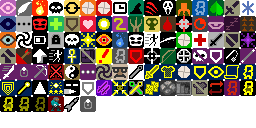
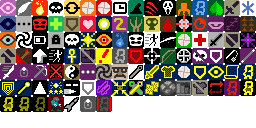
4.1.1:版本号+1；更改花园房荒芜之地效果，水灵秘药配方，鼠王房间，逸动提示，蓄血圣杯护盾计算；寄生接入伤害 Buff；制作集群智能新图标，涌动炸弹视觉效果；加强晶化附魔

Changed region(s): [[0.375, 0.75, 0.4375, 0.875]]

diff --git a/core/src/main/java/com/shatteredpixel/shatteredpixeldungeon/levels/rooms/special/GardenRoom.java b/core/src/main/java/com/shatteredpixel/shatteredpixeldungeon/levels/rooms/special/GardenRoom.java
@@ -21,12 +21,16 @@
 
 package com.shatteredpixel.shatteredpixeldungeon.levels.rooms.special;
 
+import com.shatteredpixel.shatteredpixeldungeon.Challenges;
+import com.shatteredpixel.shatteredpixeldungeon.Dungeon;
 import com.shatteredpixel.shatteredpixeldungeon.actors.blobs.Foliage;
+import com.shatteredpixel.shatteredpixeldungeon.items.Generator;
 import com.shatteredpixel.shatteredpixeldungeon.levels.Level;
 import com.shatteredpixel.shatteredpixeldungeon.levels.Terrain;
 import com.shatteredpixel.shatteredpixeldungeon.levels.painters.Painter;
 import com.shatteredpixel.shatteredpixeldungeon.plants.BlandfruitBush;
-import com.shatteredpixel.shatteredpixeldungeon.plants.Sungrass;
+import com.shatteredpixel.shatteredpixeldungeon.plants.Plant;
+import com.shatteredpixel.shatteredpixeldungeon.plants.Starflower;
 import com.watabou.utils.Random;
 
 public class GardenRoom extends SpecialRoom {
@@ -39,14 +43,26 @@ public class GardenRoom extends SpecialRoom {
 		
 		entrance().set( Door.Type.REGULAR );
 
+		Plant.Seed seed = (Plant.Seed) Generator.randomUsingDefaults(Generator.Category.SEED);
+
 		int bushes = Random.Int(3);
+		int pos = plantPos(level);
+
 		if (bushes == 0) {
-			level.plant(new Sungrass.Seed(), plantPos( level ));
+			if (Dungeon.isChallenged(Challenges.NO_HERBALISM)) Dungeon.level.drop(seed, pos);
+			else level.plant(seed, pos);
 		} else if (bushes == 1) {
-			level.plant(new BlandfruitBush.Seed(), plantPos( level ));
+			if (Dungeon.isChallenged(Challenges.NO_HERBALISM)) Dungeon.level.drop(seed, pos);
+			else level.plant(new BlandfruitBush.Seed(), pos);
 		} else if (Random.Int(5) == 0) {
-			level.plant(new Sungrass.Seed(), plantPos( level ));
-			level.plant(new BlandfruitBush.Seed(), plantPos( level ));
+			int bushPos = plantPos(level);
+			if (Dungeon.isChallenged(Challenges.NO_HERBALISM)) {
+				Dungeon.level.drop(seed, pos);
+				Dungeon.level.drop(new Starflower.Seed(), bushPos);
+			} else {
+				level.plant(seed, pos);
+				level.plant(new BlandfruitBush.Seed(), bushPos);
+			}
 		}
 		
 		Foliage light = (Foliage)level.blobs.get( Foliage.class );

diff --git a/core/src/main/java/com/shatteredpixel/shatteredpixeldungeon/levels/rooms/secret/SecretGardenRoom.java b/core/src/main/java/com/shatteredpixel/shatteredpixeldungeon/levels/rooms/secret/SecretGardenRoom.java
@@ -21,7 +21,10 @@
 
 package com.shatteredpixel.shatteredpixeldungeon.levels.rooms.secret;
 
+import com.shatteredpixel.shatteredpixeldungeon.Challenges;
+import com.shatteredpixel.shatteredpixeldungeon.Dungeon;
 import com.shatteredpixel.shatteredpixeldungeon.actors.blobs.Foliage;
+import com.shatteredpixel.shatteredpixeldungeon.items.Generator;
 import com.shatteredpixel.shatteredpixeldungeon.items.trinkets.WornLock;
 import com.shatteredpixel.shatteredpixeldungeon.items.wands.WandOfRegrowth;
 import com.shatteredpixel.shatteredpixeldungeon.levels.Level;
@@ -52,17 +55,24 @@ public class SecretGardenRoom extends SecretRoom {
 		} else {
 			entrance().set( Door.Type.HIDDEN );
 		}
-		
-		level.plant(new Starflower.Seed(), plantPos(level));
-		level.plant(new WandOfRegrowth.Seedpod.Seed(), plantPos( level ));
-		level.plant(new WandOfRegrowth.Dewcatcher.Seed(), plantPos( level ));
-		
-		if (Random.Int(2) == 0){
-			level.plant(new WandOfRegrowth.Seedpod.Seed(), plantPos( level ));
+
+		int starPos = plantPos(level);
+		if (Dungeon.isChallenged(Challenges.NO_HERBALISM)) {
+			Dungeon.level.drop(new Starflower.Seed(), starPos);
+			for (int i = 0; i < 3 + Random.Int(3); i++)
+				Dungeon.level.drop(Generator.randomUsingDefaults(Generator.Category.SEED), plantPos(level));
 		} else {
-			level.plant(new WandOfRegrowth.Dewcatcher.Seed(), plantPos( level ));
+			level.plant(new Starflower.Seed(), starPos);
+			level.plant(new WandOfRegrowth.Seedpod.Seed(), plantPos(level));
+			level.plant(new WandOfRegrowth.Dewcatcher.Seed(), plantPos(level));
+
+			if (Random.Int(2) == 0) {
+				level.plant(new WandOfRegrowth.Seedpod.Seed(), plantPos(level));
+			} else {
+				level.plant(new WandOfRegrowth.Dewcatcher.Seed(), plantPos(level));
+			}
 		}
-		
+
 		Foliage light = (Foliage)level.blobs.get( Foliage.class );
 		if (light == null) {
 			light = new Foliage();

diff --git a/core/src/main/java/com/shatteredpixel/shatteredpixeldungeon/levels/rooms/secret/RatKingRoom.java b/core/src/main/java/com/shatteredpixel/shatteredpixeldungeon/levels/rooms/secret/RatKingRoom.java
@@ -25,6 +25,7 @@ import com.shatteredpixel.shatteredpixeldungeon.Assets;
 import com.shatteredpixel.shatteredpixeldungeon.Dungeon;
 import com.shatteredpixel.shatteredpixeldungeon.actors.mobs.npcs.RatKing;
 import com.shatteredpixel.shatteredpixeldungeon.items.Gold;
+import com.shatteredpixel.shatteredpixeldungeon.items.Heap;
 import com.shatteredpixel.shatteredpixeldungeon.items.trinkets.WornLock;
 import com.shatteredpixel.shatteredpixeldungeon.levels.Level;
 import com.shatteredpixel.shatteredpixeldungeon.levels.Terrain;
@@ -79,7 +80,7 @@ public class RatKingRoom extends SecretRoom {
 
 		if (Random.Float() <= WornLock.revealHiddenDoorChance()) {
 			entrance.set( Door.Type.UNLOCKED );
-		} else {
+		} else
 			entrance.set( Door.Type.HIDDEN );
 		int door = level.pointToCell(entrance);
 
@@ -95,6 +96,17 @@ public class RatKingRoom extends SecretRoom {
 				center + 2*w,
 				center - 2 + 2*w,
 				center -2,
+		};
+
+		int[] chestPositions = new int[]{
+				center - 1 - 2*w,
+				center + 1 - 2*w,
+				center - 2 - w,
+				center + 2 - w,
+				center - 2 + w,
+				center + 2 + w,
+				center - 1 + 2*w,
+				center + 1 + 2*w,
 		};
 
 		for (int cell : statuePositions){
@@ -123,12 +135,8 @@ public class RatKingRoom extends SecretRoom {
 		king.pos = center;
 		level.mobs.add( king );
 
-		for (Point p : getPoints()){
-			int cell = level.pointToCell(p);
-			if (cell != center && (level.map[cell] == Terrain.EMPTY || level.map[cell] == Terrain.EMPTY_SP)){
-				level.drop( new Gold( Random.IntRange( 5, 20 ) ), cell );
-			}
-		}
+		for (int i : chestPositions)
+			level.drop( new Gold( Random.IntRange( 20, 30 ) ), i ).type = Heap.Type.CHEST;
 	}
 
 	public static class RatKingRoomDeco extends CustomTilemap {

diff --git a/core/src/main/java/com/shatteredpixel/shatteredpixeldungeon/actors/mobs/Parasite.java b/core/src/main/java/com/shatteredpixel/shatteredpixeldungeon/actors/mobs/Parasite.java
@@ -71,6 +71,7 @@ public class Parasite extends RipperDemon {
 		if (leapVictim != null && alignment != leapVictim.alignment){
 			if (hit(this, leapVictim, Char.INFINITE_ACCURACY, false)) {
 				Buff.append(leapVictim, Parasitism.class).parasite = this;
+				leapVictim.needsIncomingDOTUpdate = true;
 
 				Doom d = buff(Doom.class);
 				Actor.remove(this);
@@ -105,7 +106,7 @@ public class Parasite extends RipperDemon {
 		return Random.NormalIntRange(6, 10);
 	}
 
-	public static class Parasitism extends Buff {
+	public static class Parasitism extends Buff implements Buff.DOTbuff {
 
 		public Parasite parasite;
 		private int Time = 12;
@@ -138,6 +139,7 @@ public class Parasite extends RipperDemon {
 			spend(TICK);
 			target.damage(12 - Time, this);
 			if (Time <= 0) detach();
+			target.needsIncomingDOTUpdate = true;
 			return true;
 		}
 
@@ -184,12 +186,18 @@ public class Parasite extends RipperDemon {
 				Sample.INSTANCE.play(Assets.Sounds.HIT_STAB);
 				Sample.INSTANCE.play(Assets.Sounds.HIT_STRONG);
 			}
+			target.needsIncomingDOTUpdate = true;
 			super.detach();
 		}
 
 		@Override
 		public String desc() {
 			return Messages.get(this, "desc", Time);
+		}
+
+		@Override
+		public int totalIncomingDMG() {
+			return (Math.max(0, 1 - Time) + 25 - Time) * Math.max(1, Time) / 2;
 		}
 	}
 }

diff --git a/core/src/main/java/com/shatteredpixel/shatteredpixeldungeon/items/weapon/enchantments/Crystal.java b/core/src/main/java/com/shatteredpixel/shatteredpixeldungeon/items/weapon/enchantments/Crystal.java
@@ -87,15 +87,26 @@ public class Crystal extends Weapon.Enchantment {
 				} else if (visualDurability <= 0) {
 					Sample.INSTANCE.play( Assets.Sounds.SHATTER );
 					Splash.at(attacker.pos, 0x0088FF, 15);
+
+					boolean toBreak = true;
+					if (weapon.trueLevel() > 0 && weapon.isUpgradable()) {
+						weapon.degrade();
+						toBreak = false;
+						durability = 100;
+						visualDurability = 100;
+					}
+
 					if (attacker instanceof Hero) {
-						if (weapon.isEquipped((Hero) attacker)) {
-							weapon.doUnequip((Hero) attacker, false);
-						} else {
-							weapon.detachAll(((Hero) attacker).belongings.backpack);
+						if (toBreak){
+							if (weapon.isEquipped((Hero) attacker)) {
+								weapon.doUnequip((Hero) attacker, false);
+							} else {
+								weapon.detachAll(((Hero) attacker).belongings.backpack);
+							}
 						}
 						GLog.n(Messages.get(this, "alert_shattered"));
 					} else if (attacker instanceof DriedRose.GhostHero){
-						((DriedRose.GhostHero) attacker).clearWeapon();
+						if (toBreak) ((DriedRose.GhostHero) attacker).clearWeapon();
 						GLog.n(Messages.get(this, "alert_shattered_ghost"));
 					}
 				}

diff --git a/core/src/main/java/com/shatteredpixel/shatteredpixeldungeon/items/potions/elixirs/ElixirOfAquaticRejuvenation.java b/core/src/main/java/com/shatteredpixel/shatteredpixeldungeon/items/potions/elixirs/ElixirOfAquaticRejuvenation.java
@@ -31,6 +31,7 @@ import com.shatteredpixel.shatteredpixeldungeon.actors.hero.Hero;
 import com.shatteredpixel.shatteredpixeldungeon.effects.FloatingText;
 import com.shatteredpixel.shatteredpixeldungeon.items.Item;
 import com.shatteredpixel.shatteredpixeldungeon.items.potions.PotionOfHealing;
+import com.shatteredpixel.shatteredpixeldungeon.items.potions.exotic.PotionOfShielding;
 import com.shatteredpixel.shatteredpixeldungeon.items.quest.GooBlob;
 import com.shatteredpixel.shatteredpixeldungeon.journal.Catalog;
 import com.shatteredpixel.shatteredpixeldungeon.messages.Messages;
@@ -176,10 +177,10 @@ public class ElixirOfAquaticRejuvenation extends Elixir {
 	public static class Recipe extends com.shatteredpixel.shatteredpixeldungeon.items.Recipe.SimpleRecipe {
 		
 		{
-			inputs =  new Class[]{PotionOfHealing.class, GooBlob.class};
+			inputs =  new Class[]{PotionOfShielding.class, GooBlob.class};
 			inQuantity = new int[]{1, 1};
 			
-			cost = 6;
+			cost = 2;
 			
 			output = ElixirOfAquaticRejuvenation.class;
 			outQuantity = 1;

diff --git a/core/src/main/java/com/shatteredpixel/shatteredpixeldungeon/items/bombs/AdrenalineBomb.java b/core/src/main/java/com/shatteredpixel/shatteredpixeldungeon/items/bombs/AdrenalineBomb.java
@@ -30,7 +30,9 @@ import com.shatteredpixel.shatteredpixeldungeon.actors.buffs.Bless;
 import com.shatteredpixel.shatteredpixeldungeon.actors.buffs.Buff;
 import com.shatteredpixel.shatteredpixeldungeon.actors.buffs.Hex;
 import com.shatteredpixel.shatteredpixeldungeon.actors.buffs.Weakness;
+import com.shatteredpixel.shatteredpixeldungeon.effects.Flare;
 import com.shatteredpixel.shatteredpixeldungeon.sprites.ItemSpriteSheet;
+import com.shatteredpixel.shatteredpixeldungeon.tiles.DungeonTilemap;
 import com.watabou.noosa.audio.Sample;
 import com.watabou.utils.BArray;
 import com.watabou.utils.PathFinder;
@@ -72,6 +74,9 @@ public class AdrenalineBomb extends Bomb {
 		}
 
 		Sample.INSTANCE.play( Assets.Sounds.CHALLENGE );
+		if (Dungeon.level.heroFOV[cell])
+			new Flare(10, 64).color(0xFF0000, true)
+				.show(Dungeon.hero.sprite.parent, DungeonTilemap.tileCenterToWorld(cell), 2f);
 	}
 
 	@Override

diff --git a/core/src/main/java/com/shatteredpixel/shatteredpixeldungeon/actors/buffs/Momentum.java b/core/src/main/java/com/shatteredpixel/shatteredpixeldungeon/actors/buffs/Momentum.java
@@ -101,7 +101,12 @@ public class Momentum extends Buff implements ActionIndicator.Action {
 		movedLastTurn = true;
 		if (freerunCooldown <= 0 && !freerunning()){
 			postpone(target.cooldown()+(1/target.speed()));
-			momentumStacks = Math.min(momentumStacks + 1, 10);
+			boolean notFullBfo = momentumStacks < 10;
+			momentumStacks ++;
+			if (momentumStacks >= 10){
+				momentumStacks = 10;
+				if (notFullBfo) Dungeon.hero.interrupt();
+			}
 			ActionIndicator.setAction(this);
 			BuffIndicator.refreshHero();
 		} else if (Random.Float()<=0.1f*Dungeon.hero.pointsInTalent(Talent.STRETCHING) && freerunCooldown>0){

diff --git a/core/src/main/java/com/shatteredpixel/shatteredpixeldungeon/ui/BuffIndicator.java b/core/src/main/java/com/shatteredpixel/shatteredpixeldungeon/ui/BuffIndicator.java
@@ -152,6 +152,7 @@ public class BuffIndicator extends Component {
 	public static final int PARASITE    = 99;
 	public static final int THROWN_WEP  = 100;
 	public static final int RING        = 101;
+	public static final int SWARM_INTEL = 102;
 
 	public static final int SIZE_SMALL  = 7;
 	public static final int SIZE_LARGE  = 16;

diff --git a/core/src/main/java/com/shatteredpixel/shatteredpixeldungeon/items/artifacts/ChaliceOfBlood.java b/core/src/main/java/com/shatteredpixel/shatteredpixeldungeon/items/artifacts/ChaliceOfBlood.java
@@ -79,7 +79,7 @@ public class ChaliceOfBlood extends Artifact {
 
 			int damage = 5 + 3*(level()*level());
 
-			if (damage > hero.HP*0.75) {
+			if (damage > hero.shielding() + hero.HP*0.8) {
 
 				GameScene.show(
 					new WndOptions(new ItemSprite(this),

diff --git a/core/src/main/java/com/shatteredpixel/shatteredpixeldungeon/actors/buffs/SwarmIntelTracker.java b/core/src/main/java/com/shatteredpixel/shatteredpixeldungeon/actors/buffs/SwarmIntelTracker.java
@@ -65,7 +65,7 @@ public class SwarmIntelTracker extends Buff {
 		if (alertRange == 0 && leftAtZero <= 0){
 			return BuffIndicator.NONE;
 		} else {
-			return BuffIndicator.TARGETED;
+			return BuffIndicator.SWARM_INTEL;
 		}
 	}
 
